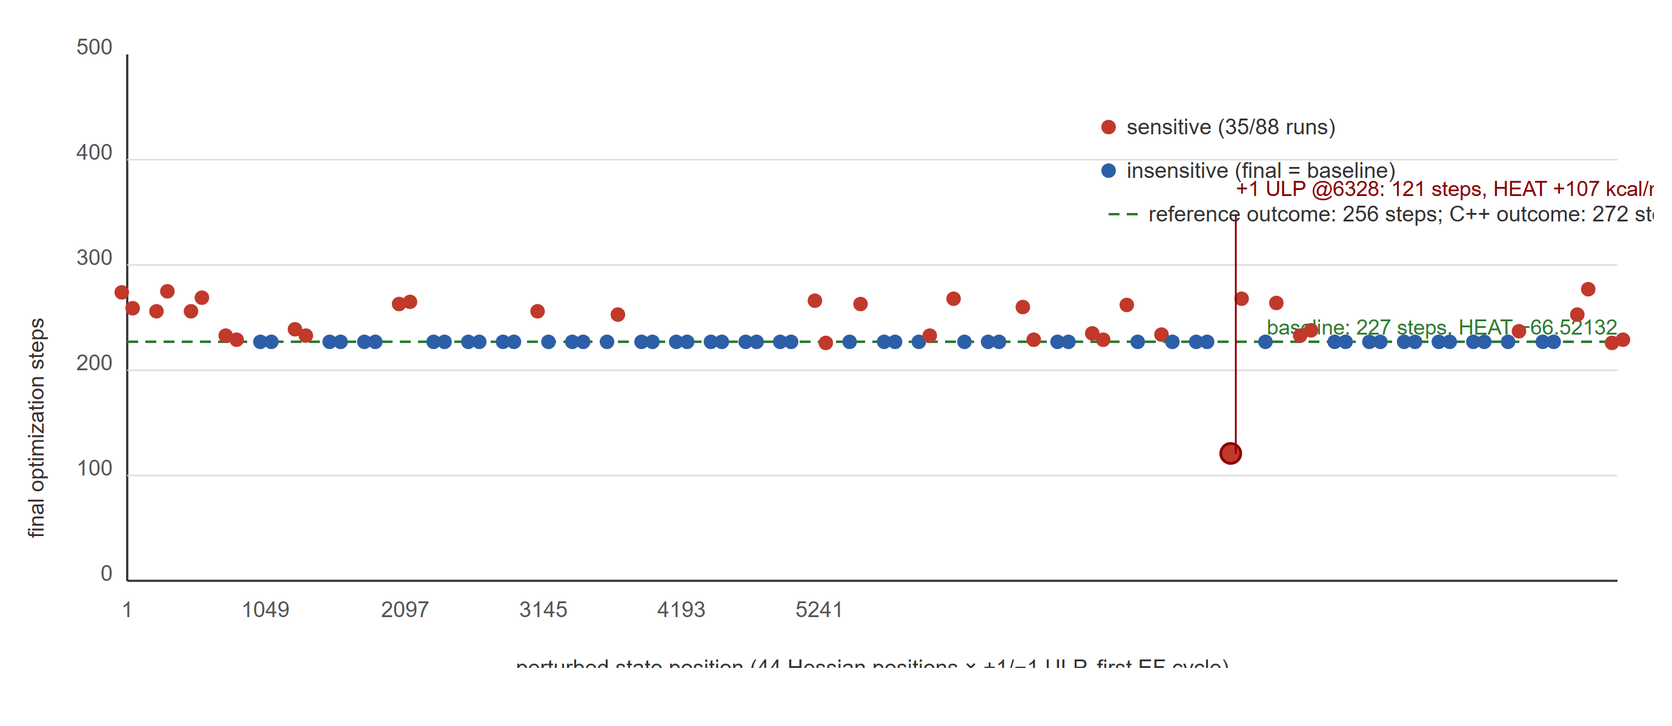
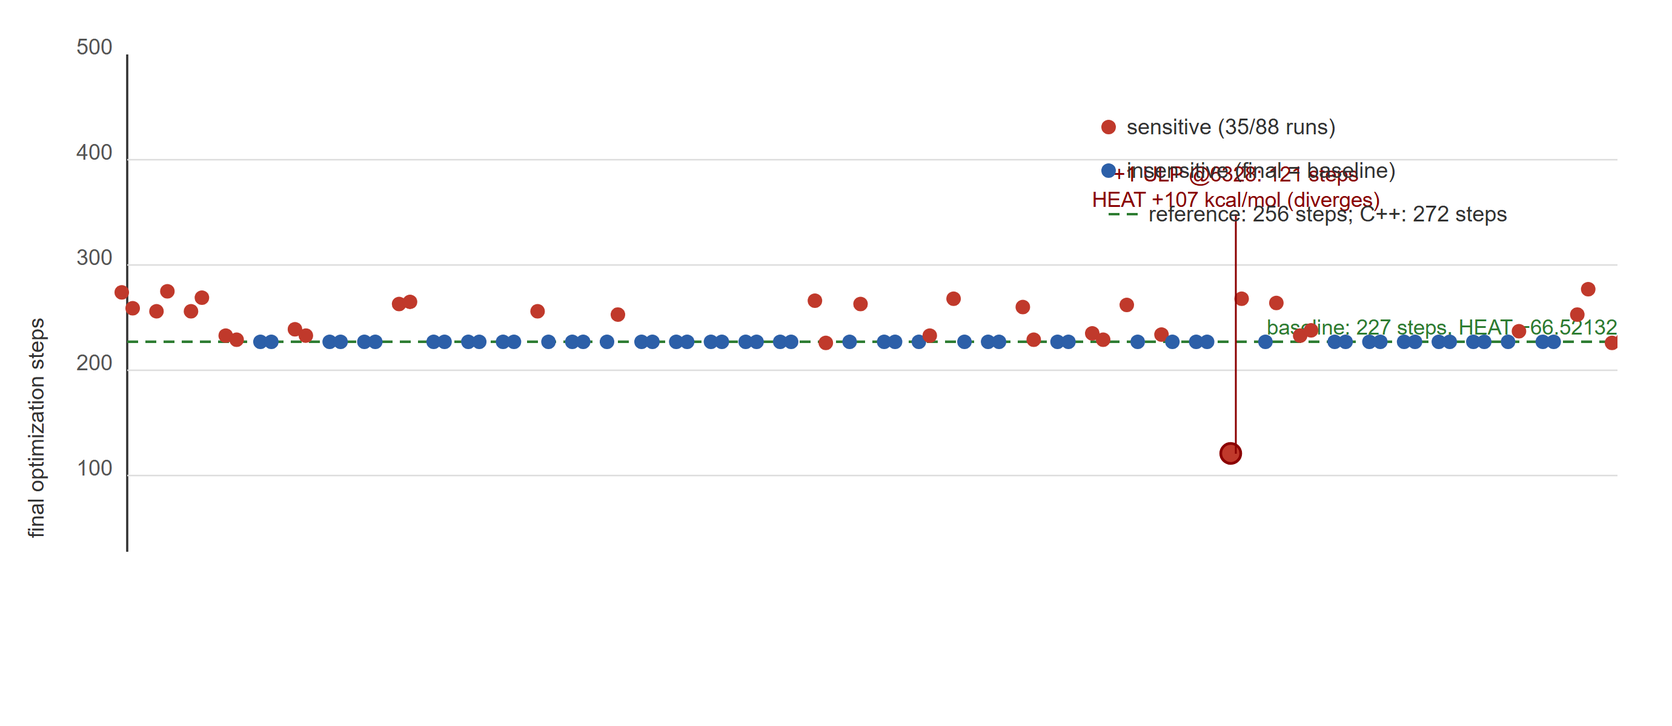
Second batch review fixes: citation ranges as superscript intervals (4-7, 8-9, 28-29, 5-6), point-group symbols as subscripts (Dinfh/Cinfv/D3h/Td/C3v/C2v/Cs), Delta E naming consistency, centered table headers; fix Fig.2 legend clipping by re-rendering PNG from corrected SVG (reference 256 / C++ 272

diff --git a/mopac_cpp_public/docs/paper_cpc_manuscript_elsarticle.tex b/mopac_cpp_public/docs/paper_cpc_manuscript_elsarticle.tex
@@ -67,7 +67,7 @@ bitwise reproducibility \sep Fortran-to-C++ migration \sep semiempirical quantum
 
 \section{1. Introduction}
 
-The migration of legacy scientific codes to modern languages is a large and growing engineering activity. Hand migration is laborious, and the accelerating use of LLM agents for code translation ³ makes automated validation more urgent than ever: the translation must be shown to preserve not only nominal output but also numerical behavior, bit for bit, so that downstream scientific conclusions remain valid. Yet standard validation practice stops at ``the outputs agree to within tolerance'', which cannot distinguish translation errors from intentional changes, and cannot certify bitwise equivalence for codes whose results must be reproducible across runs, platforms, or thread counts. The broader reproducibility problem is well recognized in computational science ⁴,⁵,⁶,⁷; the specific challenge of certifying a \textit{migration} is that the bar must be raised from nominal agreement to bitwise semantics, because semiempirical and numerical methods sit on an accumulated floating-point cascade whose small perturbations are physically meaningful ⁸,⁹.
+The migration of legacy scientific codes to modern languages is a large and growing engineering activity. Hand migration is laborious, and the accelerating use of LLM agents for code translation ³ makes automated validation more urgent than ever: the translation must be shown to preserve not only nominal output but also numerical behavior, bit for bit, so that downstream scientific conclusions remain valid. Yet standard validation practice stops at ``the outputs agree to within tolerance'', which cannot distinguish translation errors from intentional changes, and cannot certify bitwise equivalence for codes whose results must be reproducible across runs, platforms, or thread counts. The broader reproducibility problem is well recognized in computational science ⁴⁻⁷; the specific challenge of certifying a \textit{migration} is that the bar must be raised from nominal agreement to bitwise semantics, because semiempirical and numerical methods sit on an accumulated floating-point cascade whose small perturbations are physically meaningful ⁸⁻⁹.
 
 This paper addresses the full question: \textit{how does one certify, bit by bit, that a language migration preserves the numerical semantics of the original program, and what algorithm-level behavior does such certification expose?} We answer it with a complete, 1-based reimplementation of MOPAC2016 ¹⁰ --- a widely used semiempirical molecular-orbital package ⁸ --- in C++17, together with a layered verification pipeline, a floating-point (ULP) attribution protocol, and two deterministic numerical methods that arose directly from the verification work.
 
@@ -166,7 +166,7 @@ Given a residual difference at level L1/L2, the protocol decides its cause:
 
 Because both the bucket assignment and the merge order are fixed and independent of the OpenMP runtime, the output is deterministically independent of thread count and scheduling --- \textbf{Determinism theorem}: FBDR output is independent of the parallel configuration; for NB=1 it is bitwise equal to the serial path.
 
-\textbf{Error bound.} Under the IEEE-754 binary64 standard model ²⁶ with $\varepsilon$ = $2^{-53}$, let x = $\Sigma_i$ $a_i$ be a serial Fock component. Using the standard forward-error model (Higham ²⁸,²⁹; Muller et al. ³⁰), each bucket partial sum $s_b$ satisfies the same bound as the corresponding serial subsequence, and the fixed-order merge adds at most $\gamma_{NB-1}$ $\Sigma_b$ |$s_b$|; hence
+\textbf{Error bound.} Under the IEEE-754 binary64 standard model ²⁶ with $\varepsilon$ = $2^{-53}$, let x = $\Sigma_i$ $a_i$ be a serial Fock component. Using the standard forward-error model (Higham ²⁸⁻²⁹; Muller et al. ³⁰), each bucket partial sum $s_b$ satisfies the same bound as the corresponding serial subsequence, and the fixed-order merge adds at most $\gamma_{NB-1}$ $\Sigma_b$ |$s_b$|; hence
 
 which for NB $\leq$ 64 reduces the merge term to $\approx$ $7\times 10^{-15}$ times the magnitude of the partial sums --- negligible against the serial ULP budget. Measured values of the FINAL HEAT (heat of formation $\Delta H_f^\circ$, in kcal/mol) agree to full printed precision (difference dH = 0.00000) for NB $\in$ \{1,2,8,32\} across the eighteen molecules of \S{}3.1. FBDR is not performance-neutral at the molecular scale where Fock assembly dominates: on C$_{80}$H$_{162}$ it gives a measured 1.26$\times$ at 8 threads and 1.57$\times$ on C$_{120}$H$_{242}$, is neutral on small molecules, and a systematic load-balancing study shows this to be the practical 8-thread ceiling on commodity hardware (\S{}3.6).
 

diff --git a/mopac_cpp_public/docs/paper_cpc_manuscript.md b/mopac_cpp_public/docs/paper_cpc_manuscript.md
@@ -46,7 +46,7 @@ Migration of legacy Fortran scientific codes to modern languages is accelerating
 
 ## 1. Introduction
 
-The migration of legacy scientific codes to modern languages is a large and growing engineering activity. Hand migration is laborious, and the accelerating use of LLM agents for code translation ³ makes automated validation more urgent than ever: the translation must be shown to preserve not only nominal output but also numerical behavior, bit for bit, so that downstream scientific conclusions remain valid. Yet standard validation practice stops at "the outputs agree to within tolerance", which cannot distinguish translation errors from intentional changes, and cannot certify bitwise equivalence for codes whose results must be reproducible across runs, platforms, or thread counts. The broader reproducibility problem is well recognized in computational science ⁴,⁵,⁶,⁷; the specific challenge of certifying a *migration* is that the bar must be raised from nominal agreement to bitwise semantics, because semiempirical and numerical methods sit on an accumulated floating-point cascade whose small perturbations are physically meaningful ⁸,⁹.
+The migration of legacy scientific codes to modern languages is a large and growing engineering activity. Hand migration is laborious, and the accelerating use of LLM agents for code translation ³ makes automated validation more urgent than ever: the translation must be shown to preserve not only nominal output but also numerical behavior, bit for bit, so that downstream scientific conclusions remain valid. Yet standard validation practice stops at "the outputs agree to within tolerance", which cannot distinguish translation errors from intentional changes, and cannot certify bitwise equivalence for codes whose results must be reproducible across runs, platforms, or thread counts. The broader reproducibility problem is well recognized in computational science ⁴⁻⁷; the specific challenge of certifying a *migration* is that the bar must be raised from nominal agreement to bitwise semantics, because semiempirical and numerical methods sit on an accumulated floating-point cascade whose small perturbations are physically meaningful ⁸⁻⁹.
 
 This paper addresses the full question: *how does one certify, bit by bit, that a language migration preserves the numerical semantics of the original program, and what algorithm-level behavior does such certification expose?* We answer it with a complete, 1-based reimplementation of MOPAC2016 ¹,¹⁰ — a widely used semiempirical molecular-orbital package ⁸ — in C++17, together with a layered verification pipeline, a floating-point (ULP) attribution protocol, and two deterministic numerical methods that arose directly from the verification work.
 
@@ -124,7 +124,7 @@ Given a residual difference at level L1/L2, the protocol decides its cause:
 
 Because both the bucket assignment and the merge order are fixed and independent of the OpenMP runtime, the output is deterministically independent of thread count and scheduling — **Determinism theorem**: FBDR output is independent of the parallel configuration; for NB=1 it is bitwise equal to the serial path.
 
-**Error bound.** Under the IEEE-754 binary64 standard model ²⁶ with $\varepsilon = 2^{-53}$, let $x = \sum_i a_i$ be a serial Fock component. Using the standard forward-error model (Higham ²⁸,²⁹; Muller et al. ³⁰), each bucket partial sum s_b satisfies the same bound as the corresponding serial subsequence, and the fixed-order merge adds at most $\gamma_{N_B-1}\,\sum_b |s_b|$; hence
+**Error bound.** Under the IEEE-754 binary64 standard model ²⁶ with $\varepsilon = 2^{-53}$, let $x = \sum_i a_i$ be a serial Fock component. Using the standard forward-error model (Higham ²⁸⁻²⁹; Muller et al. ³⁰), each bucket partial sum s_b satisfies the same bound as the corresponding serial subsequence, and the fixed-order merge adds at most $\gamma_{N_B-1}\,\sum_b |s_b|$; hence
 
 $$
 |\hat{x}_{\mathrm{FBDR}} - x| \;\leq\; \gamma_{N-1}\,\sum_i |a_i| \;+\; \gamma_{N_B-1}\,\sum_b |s_b|, \qquad \gamma_n = \frac{n\,\varepsilon}{1-n\,\varepsilon}
@@ -154,30 +154,30 @@ All results were obtained with the Release build (MSVC 2022, SSE2, MKL 2025.3) o
 
 **Eighteen small molecules, single-point mode (bitwise, reproducible).** PM7 restricted Hartree–Fock (RHF) and unrestricted Hartree–Fock (UHF, open-shell species): NH₃, HF, HCl, CO, N₂, CO₂, CH₂O, CH₃OH, H₂O, CH₄, SO₂, H₂S, PH₃, SiH₄, CH₃SH, CH₃Cl, O₂ (UHF triplet), CH₃ (UHF doublet) — every fixed-geometry single-point (1SCF) FINAL HEAT is bitwise identical to the reference (Table 2), and this holds on both the verification build pair and the current reference rebuild: 8/8 re-runnable inputs are bitwise, and 320/320 paired non-EF inputs across the released regression suite have zero exceptions — all on the RHF/UHF diagonalization path (the linear-scaling MOZYME path is not part of this set; see the explicit exception at the end of this section). The SCF diagonalization path uses a fixed Jacobi-rotation eigensolver with a 10⁻¹⁸ threshold that reproduces the reference bitwise.
 
-**Geometry optimization (build-pair values; EF trajectories are build-sensitive).** Table 2 lists the EF-optimized FINAL HEAT values measured during the verification campaign, at which both executables followed identical trajectories (Δ = 0.00000 in every row). Optimization trajectories are, however, chaotic at the 1-ULP level (§3.2): they are reproducible within a fixed build pair but not across builds. Re-running the eight re-usable optimization inputs of this set against the current reference rebuild (a probe-cleaned rebuild of the same Fortran source) confirms this: PH₃ remains bitwise identical; CH₃, CH₃Cl, H₂S, and SiH₄ differ by ≤6×10⁻⁵ kcal/mol with identical EF cycle counts; CH₃SH differs by 1.5×10⁻³ kcal/mol; SO₂ differs by 4×10⁻⁴ kcal/mol (5 vs 7 cycles); and O₂ (UHF) bifurcates to a distinct electronic-state minimum 22.8 kcal/mol away (3 vs 4 cycles) — every case a member of the ULP-sensitivity band of §3.2, not a translation error. The SCF layer at any fixed geometry is bitwise exact on the RHF/UHF diagonalization path (§2.2, cross single-point experiments). The validation set covers the parameterized chemistry of PM7 along four independent axes — elements (nine: H, C, N, O, F, Cl, S, P, Si), point groups (linear D∞h/C∞v, planar D3h, tetrahedral Td, pyramidal C3v, bent C2v, and low-symmetry Cs), spin type (closed-shell RHF and open-shell UHF), and computation paths (single point, geometry optimization, CI, DRC, multi-Hamiltonian) — so that bitwise agreement is demonstrated across the dimension combinations most likely to exercise distinct code paths (e.g., S/P/Si introduce d-orbitals and their NDDO integrals ¹⁶; UHF exercises the two-spin Fock/density pipeline).
+**Geometry optimization (build-pair values; EF trajectories are build-sensitive).** Table 2 lists the EF-optimized FINAL HEAT values measured during the verification campaign, at which both executables followed identical trajectories (Δ = 0.00000 in every row). Optimization trajectories are, however, chaotic at the 1-ULP level (§3.2): they are reproducible within a fixed build pair but not across builds. Re-running the eight re-usable optimization inputs of this set against the current reference rebuild (a probe-cleaned rebuild of the same Fortran source) confirms this: PH₃ remains bitwise identical; CH₃, CH₃Cl, H₂S, and SiH₄ differ by ≤6×10⁻⁵ kcal/mol with identical EF cycle counts; CH₃SH differs by 1.5×10⁻³ kcal/mol; SO₂ differs by 4×10⁻⁴ kcal/mol (5 vs 7 cycles); and O₂ (UHF) bifurcates to a distinct electronic-state minimum 22.8 kcal/mol away (3 vs 4 cycles) — every case a member of the ULP-sensitivity band of §3.2, not a translation error. The SCF layer at any fixed geometry is bitwise exact on the RHF/UHF diagonalization path (§2.2, cross single-point experiments). The validation set covers the parameterized chemistry of PM7 along four independent axes — elements (nine: H, C, N, O, F, Cl, S, P, Si), point groups (linear D_{∞h}/C_{∞v}, planar D_{3h}, tetrahedral T_{d}, pyramidal C_{3v}, bent C_{2v}, and low-symmetry C_{s}), spin type (closed-shell RHF and open-shell UHF), and computation paths (single point, geometry optimization, CI, DRC, multi-Hamiltonian) — so that bitwise agreement is demonstrated across the dimension combinations most likely to exercise distinct code paths (e.g., S/P/Si introduce d-orbitals and their NDDO integrals ¹⁶; UHF exercises the two-spin Fock/density pipeline).
 
 **Table 2 — Bitwise fidelity of the C++ port against the reference MOPAC2016 rebuild (PM7; FINAL HEAT in kcal/mol; single-point rows are reproducible on the current builds, EF-optimized rows are verification-build-pair values, see §3.1).**
 
 | Molecule (point group) | FINAL HEAT reference (1SCF) | FINAL HEAT C++ (1SCF) | Δ (1SCF) | FINAL HEAT reference (EF-opt, build pair) | FINAL HEAT C++ (EF-opt, build pair) | Δ (EF-opt) |
 |---|---|---|---|---|---|---|
-| NH₃ (C3v) | −0.41198 | −0.41198 | 0.00000 | −4.26013 | −4.26013 | 0.00000 |
+| NH₃ (C_{3v}) | −0.41198 | −0.41198 | 0.00000 | −4.26013 | −4.26013 | 0.00000 |
 | HF (C∞v) | −61.65307 | −61.65307 | 0.00000 | −61.93557 | −61.93557 | 0.00000 |
 | HCl (C∞v) | −20.48449 | −20.48449 | 0.00000 | −20.48607 | −20.48607 | 0.00000 |
 | CO (C∞v) | −18.15324 | −18.15324 | 0.00000 | −18.30777 | −18.30777 | 0.00000 |
-| N₂ (D∞h) | 33.88810 | 33.88810 | 0.00000 | 32.99046 | 32.99046 | 0.00000 |
-| CO₂ (D∞h) | −84.42002 | −84.42002 | 0.00000 | −84.51541 | −84.51541 | 0.00000 |
-| CH₂O (Cs) | −25.12692 | −25.12692 | 0.00000 | −25.54306 | −25.54306 | 0.00000 |
-| CH₃OH (Cs) | −18.16185 | −18.16185 | 0.00000 | −48.93811 | −48.93811 | 0.00000 |
-| H₂O (C2v) | −57.72226 | −57.72226 | 0.00000 | −57.79940 | −57.79940 | 0.00000 |
-| CH₄ (Td) | −14.39932 | −14.39932 | 0.00000 | −14.40390 | −14.40390 | 0.00000 |
-| SO₂ (C2v) | −63.95992 | −63.95992 | 0.00000 | −65.19914 | −65.19914 | 0.00000 |
-| H₂S (C2v) | −3.18683 | −3.18683 | 0.00000 | −3.51398 | −3.51398 | 0.00000 |
-| PH₃ (C3v) | 35.50238 | 35.50238 | 0.00000 | −3.35833 | −3.35833 | 0.00000 |
-| SiH₄ (Td) | 13.48510 | 13.48510 | 0.00000 | 12.84914 | 12.84914 | 0.00000 |
-| CH₃SH (Cs) | 59.32692 | 59.32692 | 0.00000 | −4.77799 | −4.77799 | 0.00000 |
-| CH₃Cl (C3v) | −16.49884 | −16.49884 | 0.00000 | −16.53531 | −16.53531 | 0.00000 |
-| O₂ (D∞h, UHF triplet) | 7.16250 | 7.16250 | 0.00000 | 25.68941 | 25.68941 | 0.00000 |
-| CH₃ (D3h, UHF doublet) | 28.46454 | 28.46454 | 0.00000 | 27.96994 | 27.96994 | 0.00000 |
+| N₂ (D_{∞h}) | 33.88810 | 33.88810 | 0.00000 | 32.99046 | 32.99046 | 0.00000 |
+| CO₂ (D_{∞h}) | −84.42002 | −84.42002 | 0.00000 | −84.51541 | −84.51541 | 0.00000 |
+| CH₂O (C_{s}) | −25.12692 | −25.12692 | 0.00000 | −25.54306 | −25.54306 | 0.00000 |
+| CH₃OH (C_{s}) | −18.16185 | −18.16185 | 0.00000 | −48.93811 | −48.93811 | 0.00000 |
+| H₂O (C_{2v}) | −57.72226 | −57.72226 | 0.00000 | −57.79940 | −57.79940 | 0.00000 |
+| CH₄ (T_{d}) | −14.39932 | −14.39932 | 0.00000 | −14.40390 | −14.40390 | 0.00000 |
+| SO₂ (C_{2v}) | −63.95992 | −63.95992 | 0.00000 | −65.19914 | −65.19914 | 0.00000 |
+| H₂S (C_{2v}) | −3.18683 | −3.18683 | 0.00000 | −3.51398 | −3.51398 | 0.00000 |
+| PH₃ (C_{3v}) | 35.50238 | 35.50238 | 0.00000 | −3.35833 | −3.35833 | 0.00000 |
+| SiH₄ (T_{d}) | 13.48510 | 13.48510 | 0.00000 | 12.84914 | 12.84914 | 0.00000 |
+| CH₃SH (C_{s}) | 59.32692 | 59.32692 | 0.00000 | −4.77799 | −4.77799 | 0.00000 |
+| CH₃Cl (C_{3v}) | −16.49884 | −16.49884 | 0.00000 | −16.53531 | −16.53531 | 0.00000 |
+| O₂ (D_{∞h}, UHF triplet) | 7.16250 | 7.16250 | 0.00000 | 25.68941 | 25.68941 | 0.00000 |
+| CH₃ (D_{3h}, UHF doublet) | 28.46454 | 28.46454 | 0.00000 | 27.96994 | 27.96994 | 0.00000 |
 
 *Table 2 note: Δ = C++ − reference, kcal/mol. The 1SCF columns were re-verified on the current builds (release regression suite, 320/320 RHF/UHF diagonalization-path paired non-EF inputs bitwise identical, zero exceptions; 317 of the 349 released decks are 1SCF single points, `regression/`): all rows reproduce exactly. The EF-optimized columns are the verification-build-pair values; EF trajectories are 1-ULP chaotic (§3.2) and therefore build-sensitive — on the current reference rebuild the eight re-runnable optimization inputs fall inside the ULP-sensitivity band (PH₃ bitwise; four molecules ≤6×10⁻⁵ kcal/mol; CH₃SH 1.5×10⁻³; SO₂ 5→7 cycles, 4×10⁻⁴; O₂ 3→4 cycles, bifurcation to a distinct state minimum, 22.8 kcal/mol), while the C₁₂H₂₆ 256/272-step pair and the C₁₆H₃₄ bifurcation (§3.2) reproduce exactly. GAB on/off comparisons are in Table 4.*
 
@@ -190,7 +190,7 @@ All results were obtained with the Release build (MSVC 2022, SSE2, MKL 2025.3) o
 
 **C12H26 optimization.** The C++ port's optimization run follows a 272-step trajectory (FINAL HEAT −66.77720, gradient norm ‖g‖ = 0.97589); the reference terminates at 256 steps (−67.36683, ‖g‖ = 0.87603). The trajectories already separate at the second EF cycle (ΔE ≈ 0.5 kcal/mol at cycle 2) and converge to distinct points 0.59 kcal/mol apart; both outcomes are members of the ULP-sensitivity band established in §3.2. The divergence is attributed to 1-ULP-scale scalar floating-point rounding in gradient assembly (summation order and integer-power lowering by the two compilers), not to a translation defect (§2.2); the SCF layer itself is verified bitwise identical at fixed geometry on the RHF/UHF diagonalization path by cross single-point experiments (§3.2).
 
-**Explicit exception: the MOZYME linear-scaling path (stress input).** MOZYME (localized-orbital, linear-scaling SCF ¹⁹) is not part of the RHF/UHF diagonalization-path contract above, yet its large-scale ULP behavior is informative. On a deliberately compressed 143-centre alkane-like stress deck (40 C + 103 H; the input generator's "exact tetrahedral" geometry places 39 H–H pairs below 0.8 Å, and the reference's Lewis analysis flags the deck with a non-physical CHARGE = +97 and a "very large heat" CHECK warning), a MOZYME 1SCF run achieves the SCF field on both executables, but the electronic energies differ by 0.0073 eV (0.168 kcal/mol in FINAL HEAT; ΔEE × 23.0605 kcal mol⁻¹ eV⁻¹ ≈ 0.168, a relative difference ≈ 6×10⁻⁷). Probe instrumentation localized the seed to the two-center core Hamiltonian: 13 of the 16,928 packed entries of h differ by exactly 1 ULP, all on C–C pairs, tracing to the exponential (diat2) evaluated by the two compilers' math libraries (MSVC vs. Intel ifort). The 1-ULP seed propagates through the MOZYME Fock and density pipeline (781 Fock entries and 860 density entries within 1–48 ULP of each other) and is amplified over the long SCF iteration (170 iterations in the reference vs. 182 in the C++ port). This is the same class of compiler-level rounding chaos quantified in §3.2, now observed on the linear-scaling path: it does not indicate a translation defect, and the MOZYME path is excluded from the bitwise contract of this paper. Short MOZYME runs (fewer than ~10 iterations) show no amplification and agree to printed precision.
+**Explicit exception: the MOZYME linear-scaling path (stress input).** MOZYME (localized-orbital, linear-scaling SCF ¹⁹) is not part of the RHF/UHF diagonalization-path contract above, yet its large-scale ULP behavior is informative. On a deliberately compressed 143-centre alkane-like stress deck (40 C + 103 H; the input generator's "exact tetrahedral" geometry places 39 H–H pairs below 0.8 Å, and the reference's Lewis analysis flags the deck with a non-physical CHARGE = +97 and a "very large heat" CHECK warning), a MOZYME 1SCF run achieves the SCF field on both executables, but the electronic energies differ by 0.0073 eV (0.168 kcal/mol in FINAL HEAT; ΔE × 23.0605 kcal mol⁻¹ eV⁻¹ ≈ 0.168, a relative difference ≈ 6×10⁻⁷). Probe instrumentation localized the seed to the two-center core Hamiltonian: 13 of the 16,928 packed entries of h differ by exactly 1 ULP, all on C–C pairs, tracing to the exponential (diat2) evaluated by the two compilers' math libraries (MSVC vs. Intel ifort). The 1-ULP seed propagates through the MOZYME Fock and density pipeline (781 Fock entries and 860 density entries within 1–48 ULP of each other) and is amplified over the long SCF iteration (170 iterations in the reference vs. 182 in the C++ port). This is the same class of compiler-level rounding chaos quantified in §3.2, now observed on the linear-scaling path: it does not indicate a translation defect, and the MOZYME path is excluded from the bitwise contract of this paper. Short MOZYME runs (fewer than ~10 iterations) show no amplification and agree to printed precision.
 
 ### 3.2 ULP trajectory sensitivity
 
@@ -231,22 +231,22 @@ We validated GAB (§2.5) on 24 molecules covering all common point groups, compa
 | Benzene C₆H₆ (D6h) | 22.95692 | 5 | ✓ |
 | Ethane C₂H₆ (D3d) | −18.19673 | 6 | ✓ |
 | Ethylene C₂H₄ (D2h) | 13.85554 | 6 | ✓ |
-| Acetylene C₂H₂ (D∞h) | 57.13711 | 6 | ✓ |
-| CO₂ (D∞h) | −84.51541 | 3 | ✓ |
-| N₂ (D∞h) | 32.99046 | 4 | ✓ |
+| Acetylene C₂H₂ (D_{∞h}) | 57.13711 | 6 | ✓ |
+| CO₂ (D_{∞h}) | −84.51541 | 3 | ✓ |
+| N₂ (D_{∞h}) | 32.99046 | 4 | ✓ |
 | HF / HCl / CO (C∞v) | −61.93557 / −20.48607 / −18.30777 | 4/3/3 | ✓ |
-| CH₄ (Td) | −14.40390 | 3 | ✓ |
-| NH₃ (C3v) | −4.26013 | 5 | ✓ |
-| H₂O (C2v) | −57.79940 | 3 | ✓ |
-| CH₂O / CH₃OH (Cs) | −25.54306 / −48.93811 | 6/8 | ✓ |
-| SO₂ (C2v) | −65.19914 | 5 | ✓ |
-| H₂S (C2v) | −3.51398 | 4 | ✓ |
-| PH₃ (C3v) | −3.35833 | 9 | ✓ |
-| SiH₄ (Td) | 12.84914 | 5 | ✓ |
-| CH₃SH (Cs) | −4.77799 | 17 | ✓ |
-| CH₃Cl (C3v) | −16.53531 | 3 | ✓ |
-| O₂ (D∞h, UHF triplet) | 25.68941 | 3 | ✓ |
-| CH₃ (D3h, UHF doublet) | 27.96994 | 5 | ✓ |
+| CH₄ (T_{d}) | −14.40390 | 3 | ✓ |
+| NH₃ (C_{3v}) | −4.26013 | 5 | ✓ |
+| H₂O (C_{2v}) | −57.79940 | 3 | ✓ |
+| CH₂O / CH₃OH (C_{s}) | −25.54306 / −48.93811 | 6/8 | ✓ |
+| SO₂ (C_{2v}) | −65.19914 | 5 | ✓ |
+| H₂S (C_{2v}) | −3.51398 | 4 | ✓ |
+| PH₃ (C_{3v}) | −3.35833 | 9 | ✓ |
+| SiH₄ (T_{d}) | 12.84914 | 5 | ✓ |
+| CH₃SH (C_{s}) | −4.77799 | 17 | ✓ |
+| CH₃Cl (C_{3v}) | −16.53531 | 3 | ✓ |
+| O₂ (D_{∞h}, UHF triplet) | 25.68941 | 3 | ✓ |
+| CH₃ (D_{3h}, UHF doublet) | 27.96994 | 5 | ✓ |
 
 *Table 4 note: the 24-molecule validation was measured on the verification build pair (as in Table 2). GAB (§2.5) activates only when the EF Hessian contains a near-degenerate block with m ≥ 2 and ‖g_D‖ > 1e-12; molecules whose optimizer never enters such a block satisfy "GAB identical" trivially, because both modes then execute the same code path. On the current builds, C₁₂H₂₆ re-verifies the GAB on/off comparison bitwise (−66.77720, 272 steps with and without `MOPAC_GAB`), and the reference trajectories are the 1-ULP build-sensitive values of Table 2/§3.2 (e.g., the O₂ UHF row above is the verification-build-pair value; on the current reference rebuild O₂ bifurcates to a distinct state minimum, §3.1).*
 

diff --git a/mopac_cpp_public/docs/softwarex_manuscript.md b/mopac_cpp_public/docs/softwarex_manuscript.md
@@ -42,7 +42,7 @@ MOPAC2016 is one of the most widely used semiempirical molecular-orbital program
 
 ## 1. Motivation and significance
 
-Semiempirical quantum-chemical methods (PM7 ¹, PM6 ², AM1 ³) remain a workhorse for systems where density-functional and wave-function methods are too expensive: large organic molecules, condensed-phase sampling, reaction-path screening, and molecular dynamics ⁴. Their reference implementation, MOPAC2016 ⁵,⁶, is a mature Fortran codebase (~120,000 lines, 679 source files) whose numerical semantics — including a particular pseudo-diagonalization SCF path and a fixed accumulation order — define the *de facto* values reported in thousands of published studies.
+Semiempirical quantum-chemical methods (PM7 ¹, PM6 ², AM1 ³) remain a workhorse for systems where density-functional and wave-function methods are too expensive: large organic molecules, condensed-phase sampling, reaction-path screening, and molecular dynamics ⁴. Their reference implementation, MOPAC2016 ⁵⁻⁶, is a mature Fortran codebase (~120,000 lines, 679 source files) whose numerical semantics — including a particular pseudo-diagonalization SCF path and a fixed accumulation order — define the *de facto* values reported in thousands of published studies.
 
 Scientific software in this state faces two well-known problems. First, legacy Fortran code is increasingly difficult to maintain, extend, and integrate into modern C++-based toolchains (AI/ML pipelines, visualization, workflow engines). Second, as reproducibility standards tighten ⁷,⁸, the community needs a defensible answer to the question: *when a program is re-expressed in another language, how do we know the numbers are still the numbers?* Prior work has addressed parallel non-determinism within a single code (e.g., FELTOR ⁹), used differential fault injection to test LLM-modernized code ¹⁰, and evaluated the correctness and reproducibility of LLM-generated parallel C/C++ translations at scale ¹¹; to our knowledge none reports a bitwise-verified full migration of a production quantum-chemistry package at this scale on the nominal path.
 
